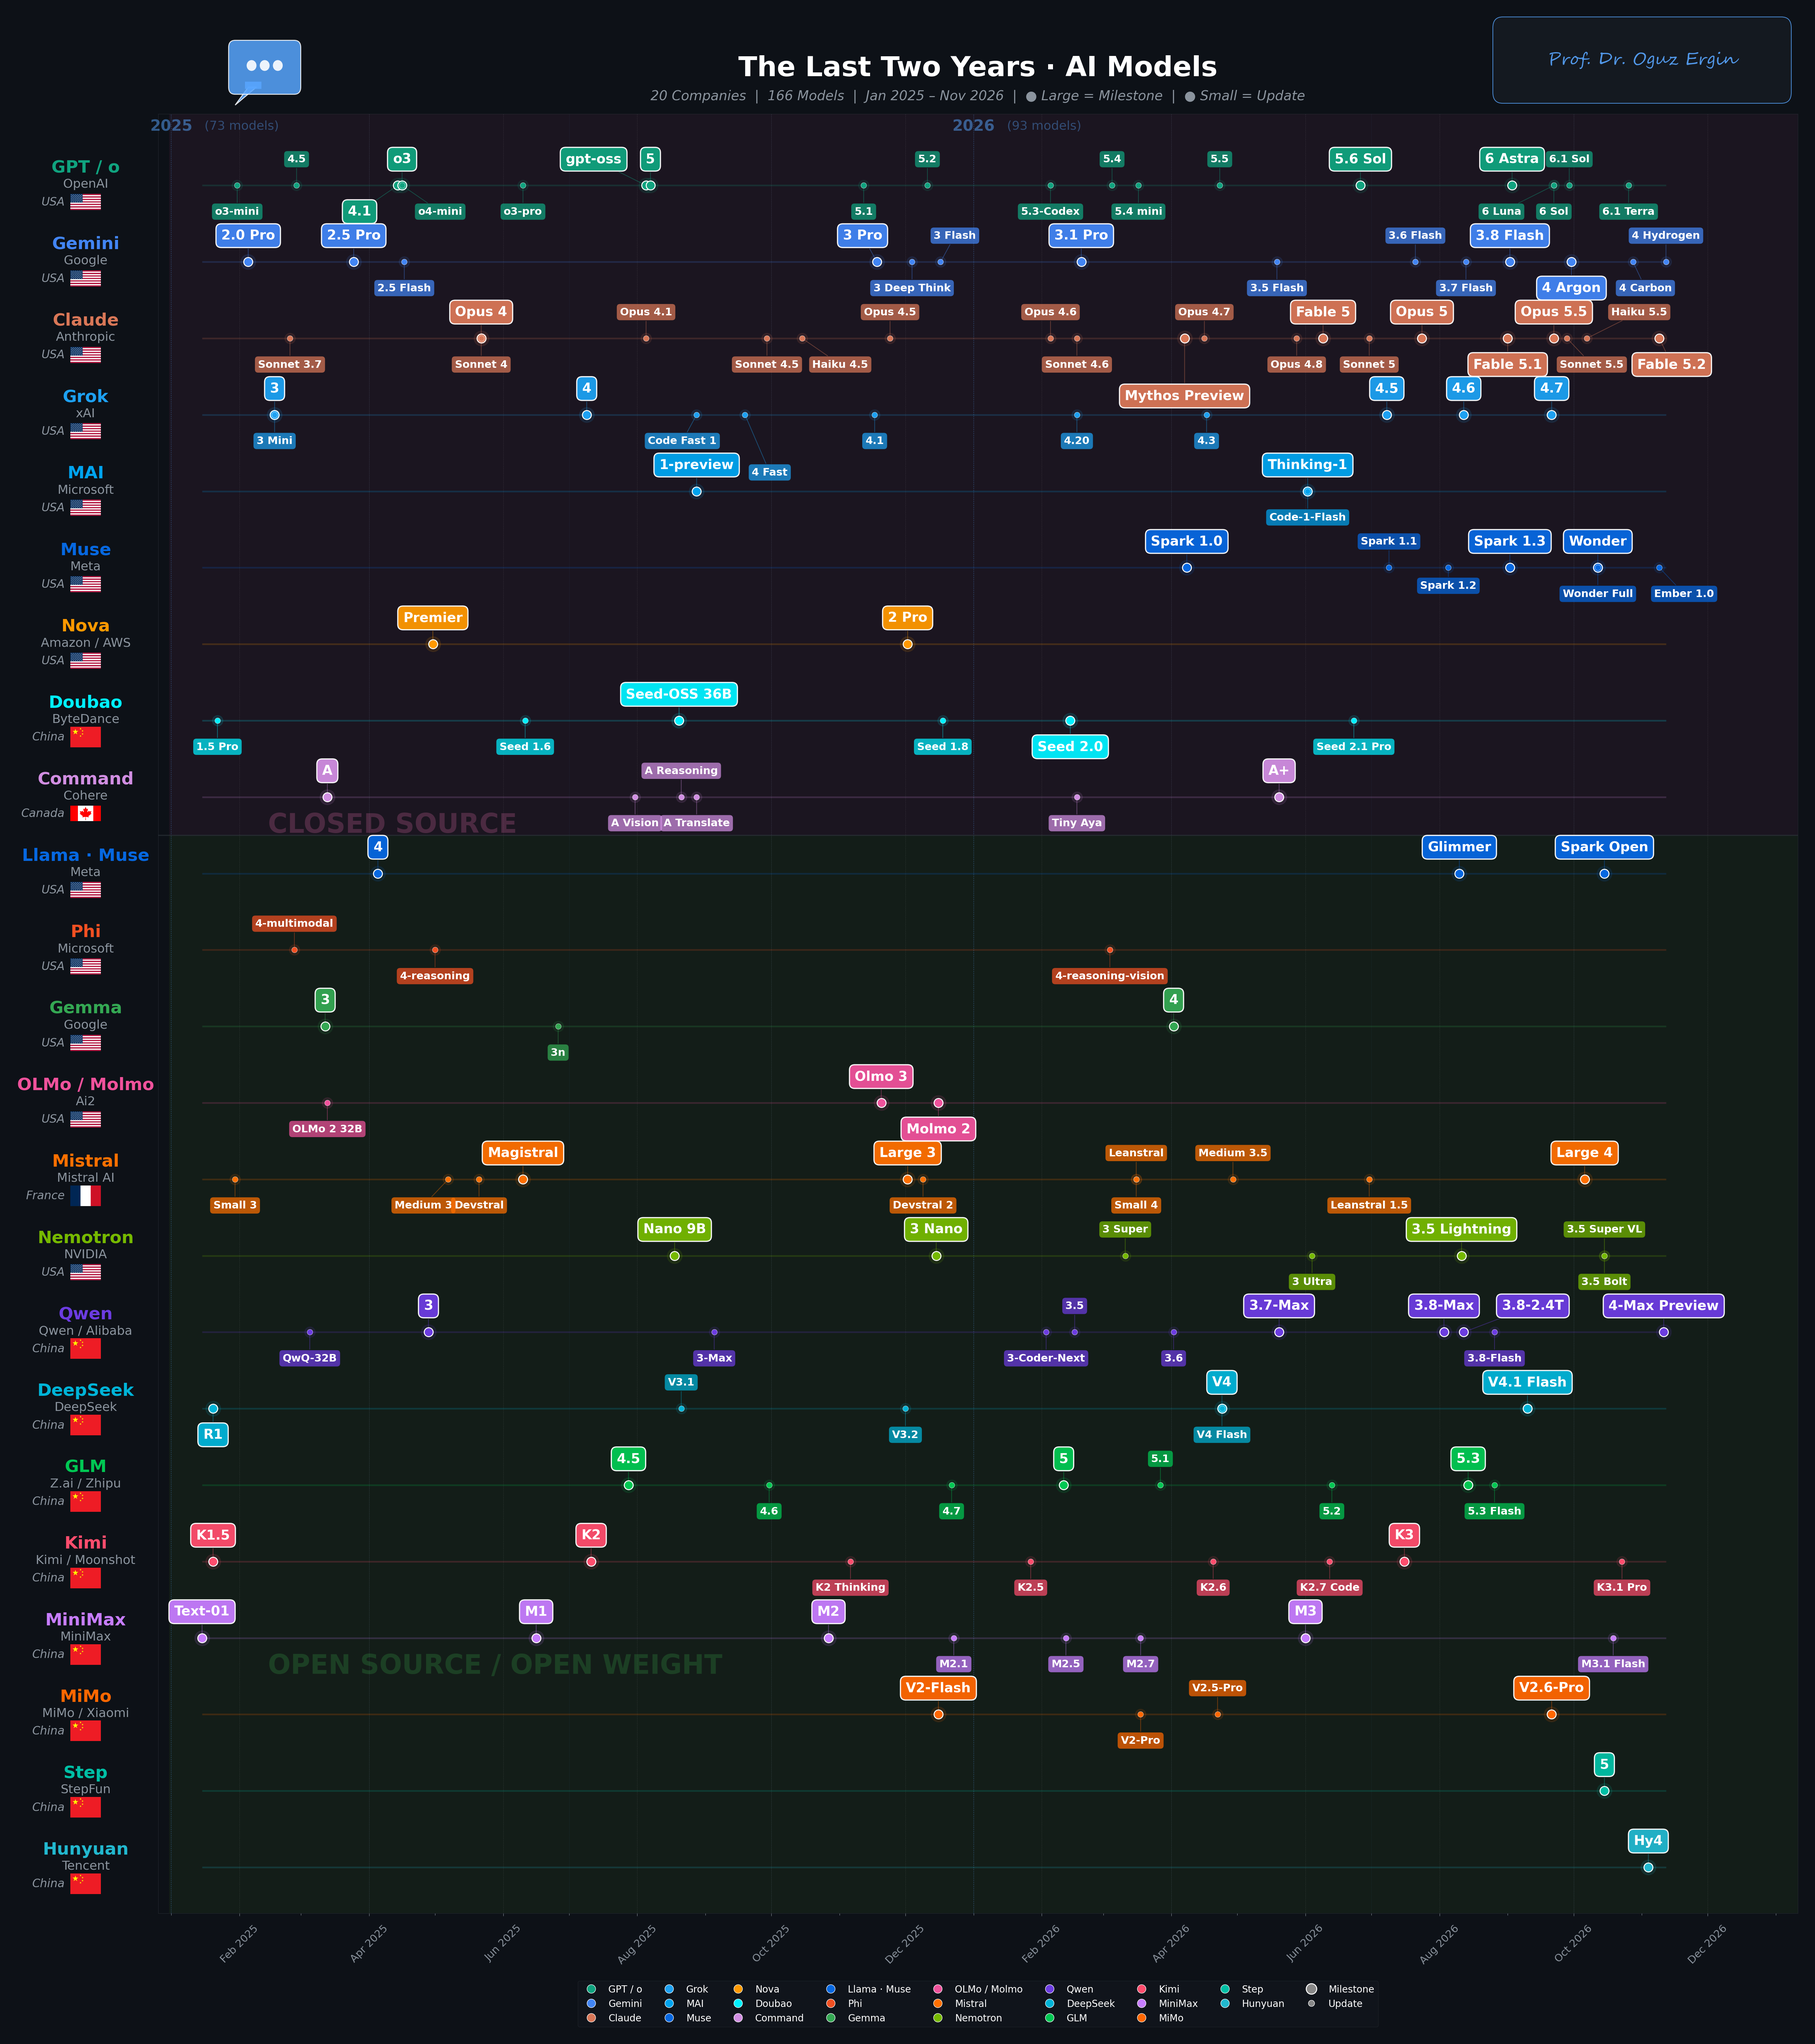
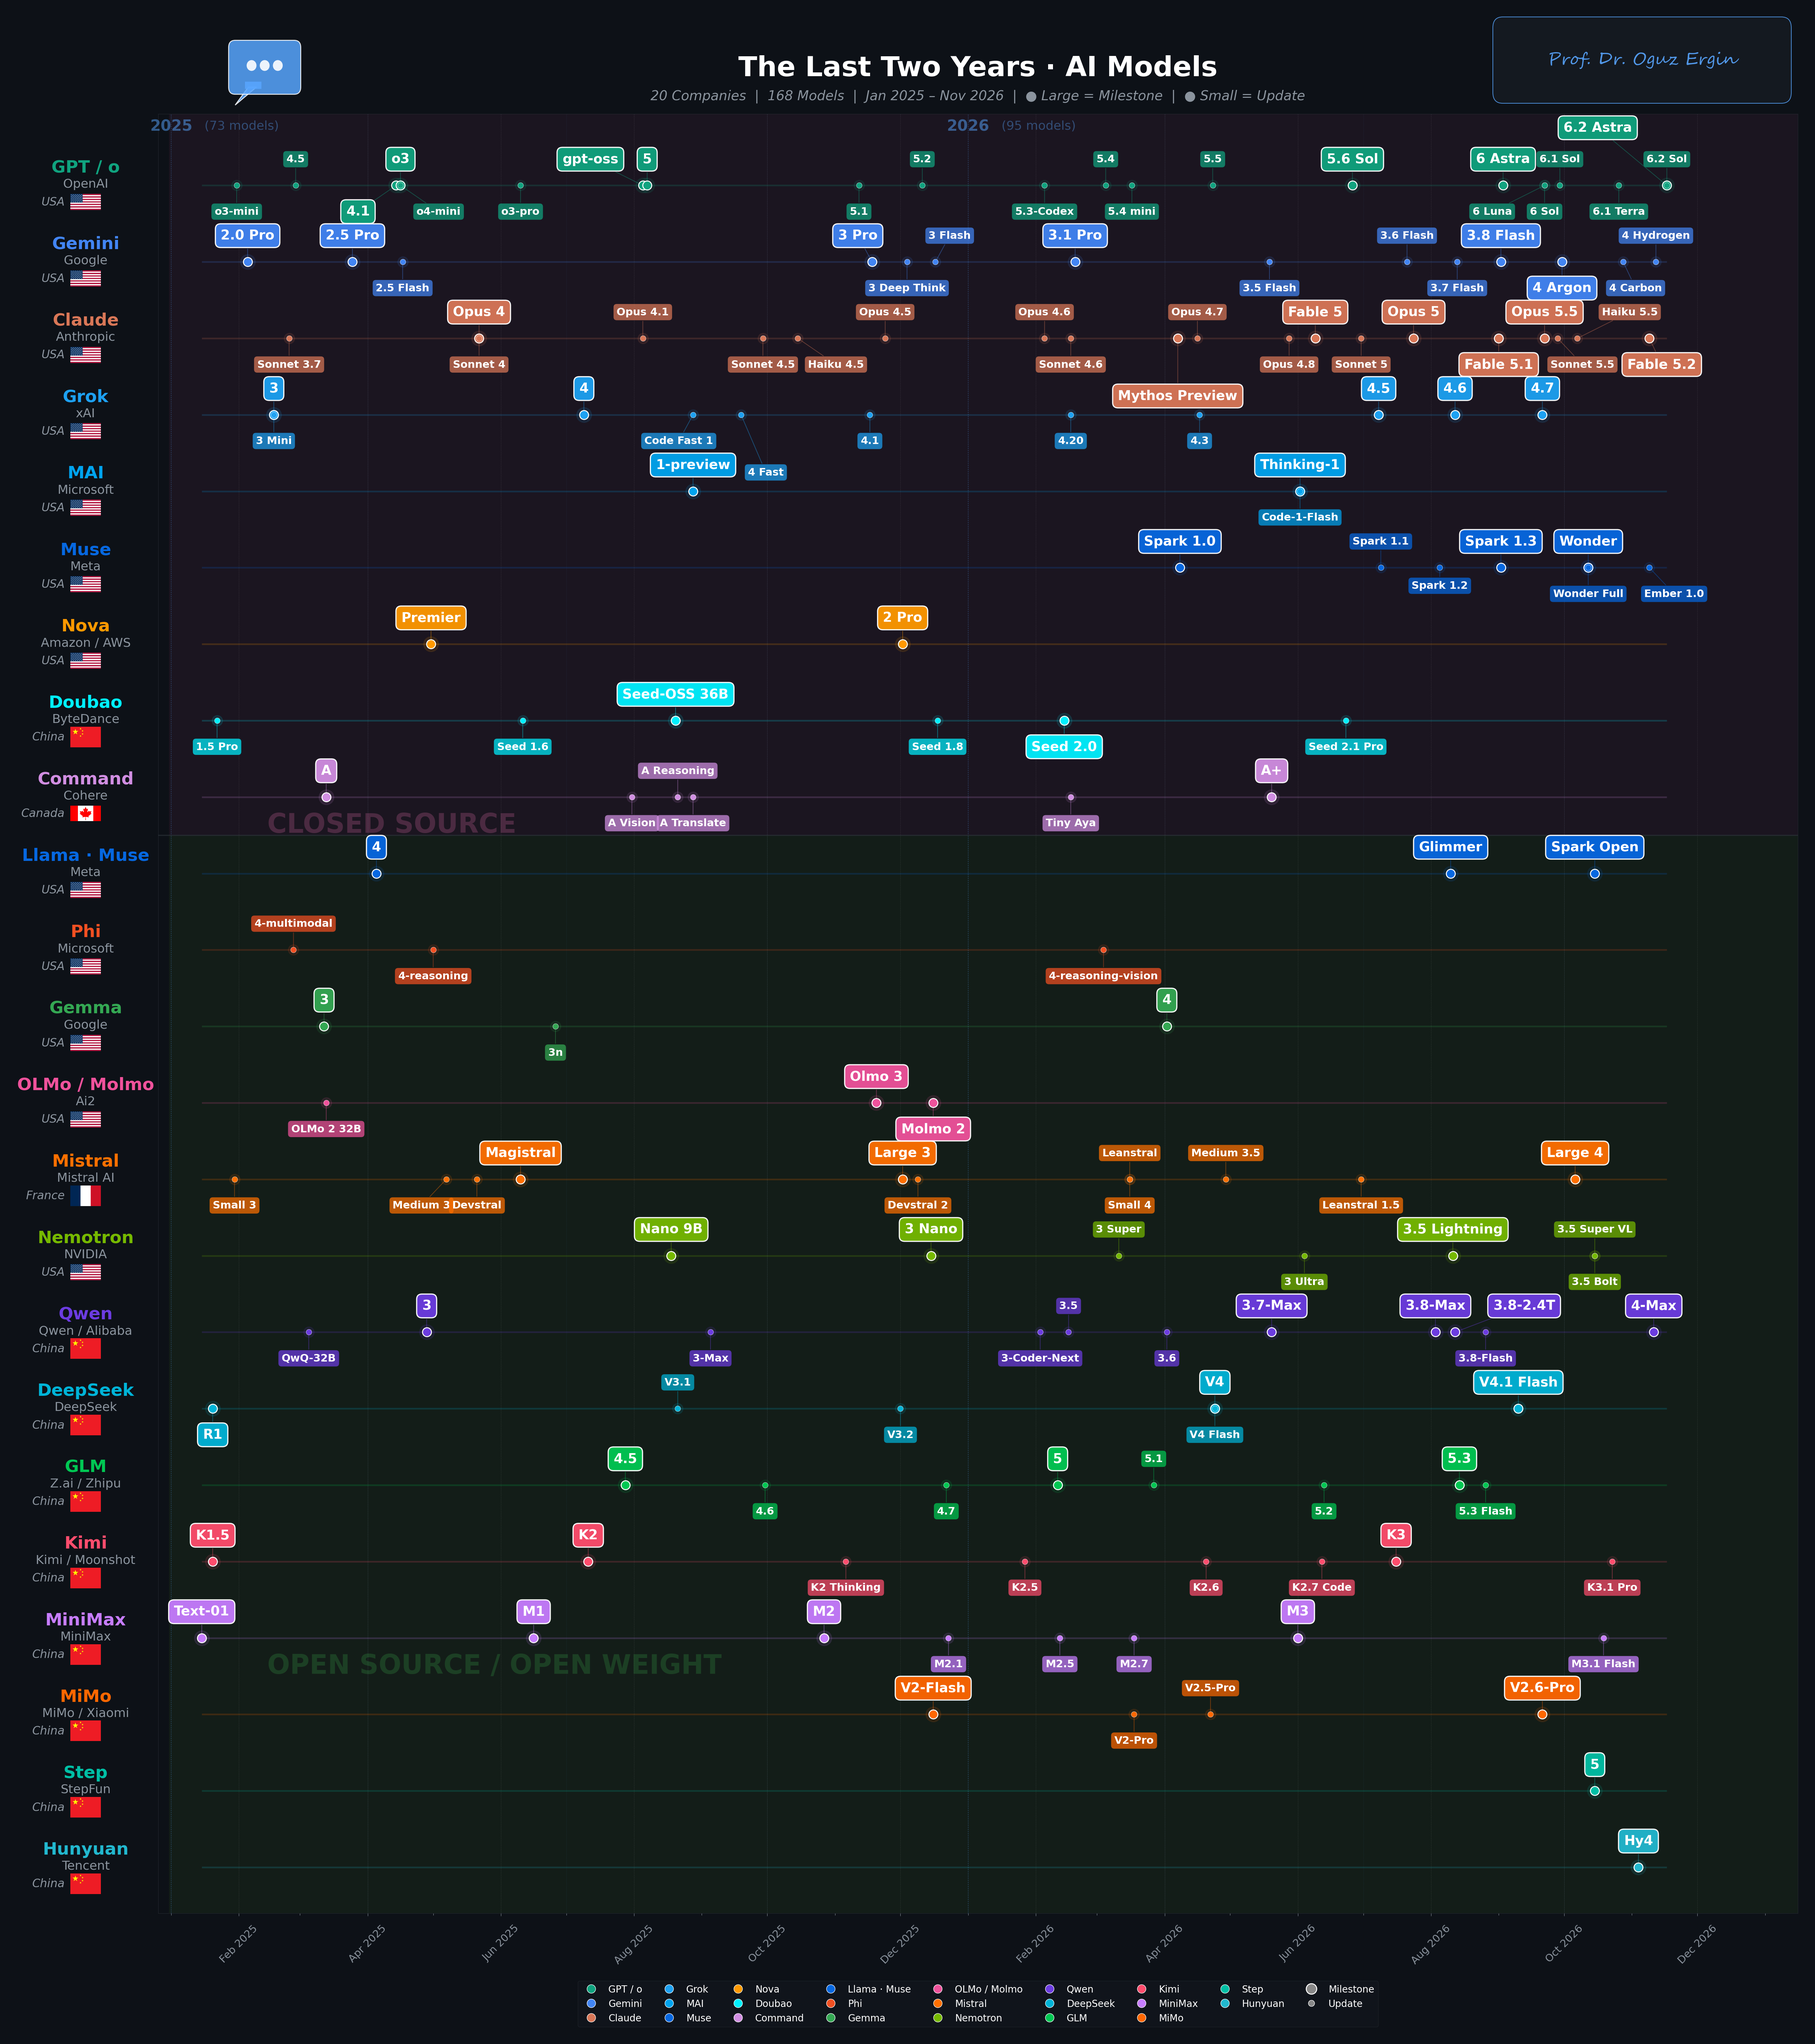
GPT-6.2 Astra ve Sol eklendi; Qwen4-Max tam surum adina cevrildi
OpenAI 17 Kas 2026'da GPT-6.2 Astra ve GPT-6.2 Sol'u yayimladi (ChatGPT,
Codex, API: gpt-6.2-astra / gpt-6.2-sol). Astra donum noktasi, Sol kademe.
Astra'nin API fiyati 10/50'den 8/40 dolara indi.

Qwen4-Max 16 Kas'ta genel kullanima acildi (qwen4-max, 2,4T MoE, kapali
agirlik). Kayit "Qwen4-Max-Preview" idi; ad "Qwen4-Max" yapildi, tarih
ilk duyuru kurali geregi 11 Kas'ta birakildi (onizleme o gun acildi).

Yerlesim: 6.2 Sol (105, 55), 6.2 Astra (40, 121). Cozucunun ilk konumu
6.1 Terra kutusundan gecen bir baglanti cizgisi uretiyordu.
llm_check 11 kusur (onceki 10): tek fark Codestral/Large 2 arasinin
8 px payin altina inmesi; ortusme yok, eksen 5 gun uzayinca olcek daraldi.
223 -> 225 model, iki yillik 166 -> 168.

diff --git a/index.html b/index.html
@@ -600,7 +600,7 @@
 </footer>
 
 <script>
-  const ASSET_V = "20261113b";
+  const ASSET_V = "20261118a";
   // Karsilastirma tablosu artik sayfaya gomulu (shadow DOM); iframe/fitCmp yok.
   const labels = {
     tr: {
@@ -641,7 +641,7 @@
       dl_source: "Kaynak: Andon Labs",
       show_all: "Hepsini Göster",
       hide_all: "Hepsini Gizle",
-      desc_llm: "<strong>223 büyük dil modeli</strong>, çıkış tarihine göre sıralı. 23 model ailesi (açık ve kapalı ağırlıklı), Kasım 2022'den günümüze.",
+      desc_llm: "<strong>225 büyük dil modeli</strong>, çıkış tarihine göre sıralı. 23 model ailesi (açık ve kapalı ağırlıklı), Kasım 2022'den günümüze.",
       desc_image: "<strong>22 görsel üretme aracı, 106 sürüm.</strong> DALL-E, Midjourney, Imagen, FLUX, Stable Diffusion ve daha fazlası. 2021'den günümüze.",
       desc_video: "<strong>Yapay Zeka Video Üretme Araçları Zaman Çizelgesi.</strong> 22 araç · 85 sürüm · Şubat 2023 – Kasım 2026",
       desc_compare: "<strong>Öncü LLM karşılaştırma tablosu.</strong> 52 model × 70 benchmark. Her satır renk skalalı (yeşil = en iyi, kırmızı = en kötü), en yüksek skor çerçeveli. Anthropic, OpenAI, Google, Moonshot, Z.AI, Alibaba, DeepSeek, xAI, Meta modelleri yan yana.",
@@ -656,7 +656,7 @@
       dl_other_all: "Son 2 yıl · PNG",
       img_llm_2y: "ai_timeline_2yil_tr.png",
       img_llm_2y_linkedin: "ai_timeline_2yil_tr_linkedin.png",
-      desc_llm_2y: "<strong>166 büyük dil modeli</strong>, çıkış tarihine göre sıralı. Ocak 2025'ten günümüze; modellerin üçte ikisi bu iki yıla sığıyor, o yüzden burada daha rahat okunuyor.",
+      desc_llm_2y: "<strong>168 büyük dil modeli</strong>, çıkış tarihine göre sıralı. Ocak 2025'ten günümüze; modellerin üçte ikisi bu iki yıla sığıyor, o yüzden burada daha rahat okunuyor.",
       img_llm: "ai_timeline_final_tr.png",
       img_llm_linkedin: "ai_timeline_final_tr_linkedin.png",
       img_image: "ai_image_gen_timeline_tr.png",
@@ -713,7 +713,7 @@
       dl_source: "Source: Andon Labs",
       show_all: "Show All",
       hide_all: "Hide All",
-      desc_llm: "<strong>223 large language models</strong>, sorted by release date. 23 model families (open and closed weights), from November 2022 to today.",
+      desc_llm: "<strong>225 large language models</strong>, sorted by release date. 23 model families (open and closed weights), from November 2022 to today.",
       desc_image: "<strong>22 image generation tools, 106 versions.</strong> DALL-E, Midjourney, Imagen, FLUX, Stable Diffusion and more — from 2021 to today.",
       desc_video: "<strong>AI Video Generation Tools Timeline.</strong> 22 tools · 85 versions · Feb 2023 – Nov 2026",
       desc_compare: "<strong>Frontier LLM comparison table.</strong> 52 models × 70 benchmarks. Each row color-scaled (green = best, red = worst), top score framed. Anthropic, OpenAI, Google, Moonshot, Z.AI, Alibaba, DeepSeek, xAI, Meta models side by side.",
@@ -728,7 +728,7 @@
       dl_other_all: "Last 2 years · PNG",
       img_llm_2y: "ai_timeline_2yil.png",
       img_llm_2y_linkedin: "ai_timeline_2yil_linkedin.png",
-      desc_llm_2y: "<strong>166 large language models</strong>, sorted by release date. From January 2025 to today; two thirds of all tracked models fall in these two years, which is why they read more clearly here.",
+      desc_llm_2y: "<strong>168 large language models</strong>, sorted by release date. From January 2025 to today; two thirds of all tracked models fall in these two years, which is why they read more clearly here.",
       img_llm: "ai_timeline_final.png",
       img_llm_linkedin: "ai_timeline_final_linkedin.png",
       img_image: "ai_image_gen_timeline.png",

diff --git a/ai_timeline_final.py b/ai_timeline_final.py
@@ -40,6 +40,8 @@ data = [
     ("GPT-6 Luna", "OpenAI", "2026-09-22", False),
     ("GPT-6.1 Sol", "OpenAI", "2026-09-29", False),
     ("GPT-6.1 Terra", "OpenAI", "2026-10-26", False),
+    ("GPT-6.2 Astra", "OpenAI", "2026-11-17", True),
+    ("GPT-6.2 Sol", "OpenAI", "2026-11-17", False),
 
     # Google
     ("Gemini 1.0 Pro", "Google", "2023-12-06", True),
@@ -183,7 +185,7 @@ data = [
     ("Qwen3.8-Max", "Qwen", "2026-08-03", True),
     ("Qwen3.8-2.4T", "Qwen", "2026-08-12", True),
     ("Qwen3.8-Flash-Next", "Qwen", "2026-08-26", False),
-    ("Qwen4-Max-Preview", "Qwen", "2026-11-11", True),
+    ("Qwen4-Max", "Qwen", "2026-11-11", True),
 
     # DeepSeek
     ("DeepSeek Coder", "DeepSeek", "2023-11-02", True),
@@ -320,6 +322,8 @@ short_labels = {
     "gpt-oss":          "gpt-oss",
     "GPT-6.1 Sol":      "6.1 Sol",
     "GPT-6.1 Terra":    "6.1 Terra",
+    "GPT-6.2 Astra":    "6.2 Astra",
+    "GPT-6.2 Sol":      "6.2 Sol",
     "MiMo-V2-Flash":    "V2-Flash",
     "MiMo-V2-Pro":      "V2-Pro",
     "MiMo-V2.5-Pro":    "V2.5-Pro",
@@ -329,7 +333,7 @@ short_labels = {
     "Step 5":           "5",
     "Hy4":              "Hy4",
     "Muse Ember 1.0":   "Ember 1.0",
-    "Qwen4-Max-Preview": "4-Max Preview",
+    "Qwen4-Max":        "4-Max",
     # Google Gemini
     "Gemini 1.0 Pro":       "1.0 Pro",
     "Gemini 1.5 Pro":       "1.5 Pro",
@@ -842,6 +846,8 @@ company_overrides = {
     ("Anthropic", "Fable 5.1"): (0, -55),
     ("Anthropic", "Fable 5.2"): (0, -55),
     ("Google", "4 Hydrogen"): (0, 55),
+    ("OpenAI", "6.2 Sol"): (105, 55),
+    ("OpenAI", "6.2 Astra"): (40, 121),
     ("Anthropic", "Mythos Preview"): (-80, -121),
     # Mistral - all labels equal distance from line (no multi-level stacking)
     ("Mistral", "Medium 3"):    (-55, -55),

diff --git a/ai_timeline_final_tr.py b/ai_timeline_final_tr.py
@@ -40,6 +40,8 @@ data = [
     ("GPT-6 Luna", "OpenAI", "2026-09-22", False),
     ("GPT-6.1 Sol", "OpenAI", "2026-09-29", False),
     ("GPT-6.1 Terra", "OpenAI", "2026-10-26", False),
+    ("GPT-6.2 Astra", "OpenAI", "2026-11-17", True),
+    ("GPT-6.2 Sol", "OpenAI", "2026-11-17", False),
 
     # Google
     ("Gemini 1.0 Pro", "Google", "2023-12-06", True),
@@ -183,7 +185,7 @@ data = [
     ("Qwen3.8-Max", "Qwen", "2026-08-03", True),
     ("Qwen3.8-2.4T", "Qwen", "2026-08-12", True),
     ("Qwen3.8-Flash-Next", "Qwen", "2026-08-26", False),
-    ("Qwen4-Max-Preview", "Qwen", "2026-11-11", True),
+    ("Qwen4-Max", "Qwen", "2026-11-11", True),
 
     # DeepSeek
     ("DeepSeek Coder", "DeepSeek", "2023-11-02", True),
@@ -320,6 +322,8 @@ short_labels = {
     "gpt-oss":          "gpt-oss",
     "GPT-6.1 Sol":      "6.1 Sol",
     "GPT-6.1 Terra":    "6.1 Terra",
+    "GPT-6.2 Astra":    "6.2 Astra",
+    "GPT-6.2 Sol":      "6.2 Sol",
     "MiMo-V2-Flash":    "V2-Flash",
     "MiMo-V2-Pro":      "V2-Pro",
     "MiMo-V2.5-Pro":    "V2.5-Pro",
@@ -329,7 +333,7 @@ short_labels = {
     "Step 5":           "5",
     "Hy4":              "Hy4",
     "Muse Ember 1.0":   "Ember 1.0",
-    "Qwen4-Max-Preview": "4-Max Preview",
+    "Qwen4-Max":        "4-Max",
     # Google Gemini
     "Gemini 1.0 Pro":       "1.0 Pro",
     "Gemini 1.5 Pro":       "1.5 Pro",
@@ -843,6 +847,8 @@ company_overrides = {
     ("Anthropic", "Fable 5.1"): (0, -55),
     ("Anthropic", "Fable 5.2"): (0, -55),
     ("Google", "4 Hydrogen"): (0, 55),
+    ("OpenAI", "6.2 Sol"): (105, 55),
+    ("OpenAI", "6.2 Astra"): (40, 121),
     ("Anthropic", "Mythos Preview"): (-80, -121),
     # Mistral - all labels equal distance from line (no multi-level stacking)
     ("Mistral", "Medium 3"):    (-55, -55),

diff --git a/ai_timeline_2yil.py b/ai_timeline_2yil.py
@@ -40,6 +40,8 @@ data = [
     ("GPT-6 Luna", "OpenAI", "2026-09-22", False),
     ("GPT-6.1 Sol", "OpenAI", "2026-09-29", False),
     ("GPT-6.1 Terra", "OpenAI", "2026-10-26", False),
+    ("GPT-6.2 Astra", "OpenAI", "2026-11-17", True),
+    ("GPT-6.2 Sol", "OpenAI", "2026-11-17", False),
 
     # Google
     ("Gemini 1.0 Pro", "Google", "2023-12-06", True),
@@ -183,7 +185,7 @@ data = [
     ("Qwen3.8-Max", "Qwen", "2026-08-03", True),
     ("Qwen3.8-2.4T", "Qwen", "2026-08-12", True),
     ("Qwen3.8-Flash-Next", "Qwen", "2026-08-26", False),
-    ("Qwen4-Max-Preview", "Qwen", "2026-11-11", True),
+    ("Qwen4-Max", "Qwen", "2026-11-11", True),
 
     # DeepSeek
     ("DeepSeek Coder", "DeepSeek", "2023-11-02", True),
@@ -322,6 +324,8 @@ short_labels = {
     "gpt-oss":          "gpt-oss",
     "GPT-6.1 Sol":      "6.1 Sol",
     "GPT-6.1 Terra":    "6.1 Terra",
+    "GPT-6.2 Astra":    "6.2 Astra",
+    "GPT-6.2 Sol":      "6.2 Sol",
     "MiMo-V2-Flash":    "V2-Flash",
     "MiMo-V2-Pro":      "V2-Pro",
     "MiMo-V2.5-Pro":    "V2.5-Pro",
@@ -331,7 +335,7 @@ short_labels = {
     "Step 5":           "5",
     "Hy4":              "Hy4",
     "Muse Ember 1.0":   "Ember 1.0",
-    "Qwen4-Max-Preview": "4-Max Preview",
+    "Qwen4-Max":        "4-Max",
     # Google Gemini
     "Gemini 1.0 Pro":       "1.0 Pro",
     "Gemini 1.5 Pro":       "1.5 Pro",
@@ -845,6 +849,8 @@ company_overrides = {
     ("Anthropic", "Fable 5.1"): (0, -55),
     ("Anthropic", "Fable 5.2"): (0, -55),
     ("Google", "4 Hydrogen"): (0, 55),
+    ("OpenAI", "6.2 Sol"): (0, 55),
+    ("OpenAI", "6.2 Astra"): (0, 121),
     ("Anthropic", "Mythos Preview"): (0, -121),
     # Mistral - all labels equal distance from line (no multi-level stacking)
     ("Mistral", "Medium 3"): (0, -55),

diff --git a/ai_timeline_2yil_tr.py b/ai_timeline_2yil_tr.py
@@ -40,6 +40,8 @@ data = [
     ("GPT-6 Luna", "OpenAI", "2026-09-22", False),
     ("GPT-6.1 Sol", "OpenAI", "2026-09-29", False),
     ("GPT-6.1 Terra", "OpenAI", "2026-10-26", False),
+    ("GPT-6.2 Astra", "OpenAI", "2026-11-17", True),
+    ("GPT-6.2 Sol", "OpenAI", "2026-11-17", False),
 
     # Google
     ("Gemini 1.0 Pro", "Google", "2023-12-06", True),
@@ -183,7 +185,7 @@ data = [
     ("Qwen3.8-Max", "Qwen", "2026-08-03", True),
     ("Qwen3.8-2.4T", "Qwen", "2026-08-12", True),
     ("Qwen3.8-Flash-Next", "Qwen", "2026-08-26", False),
-    ("Qwen4-Max-Preview", "Qwen", "2026-11-11", True),
+    ("Qwen4-Max", "Qwen", "2026-11-11", True),
 
     # DeepSeek
     ("DeepSeek Coder", "DeepSeek", "2023-11-02", True),
@@ -322,6 +324,8 @@ short_labels = {
     "gpt-oss":          "gpt-oss",
     "GPT-6.1 Sol":      "6.1 Sol",
     "GPT-6.1 Terra":    "6.1 Terra",
+    "GPT-6.2 Astra":    "6.2 Astra",
+    "GPT-6.2 Sol":      "6.2 Sol",
     "MiMo-V2-Flash":    "V2-Flash",
     "MiMo-V2-Pro":      "V2-Pro",
     "MiMo-V2.5-Pro":    "V2.5-Pro",
@@ -331,7 +335,7 @@ short_labels = {
     "Step 5":           "5",
     "Hy4":              "Hy4",
     "Muse Ember 1.0":   "Ember 1.0",
-    "Qwen4-Max-Preview": "4-Max Preview",
+    "Qwen4-Max":        "4-Max",
     # Google Gemini
     "Gemini 1.0 Pro":       "1.0 Pro",
     "Gemini 1.5 Pro":       "1.5 Pro",
@@ -846,6 +850,8 @@ company_overrides = {
     ("Anthropic", "Fable 5.1"): (0, -55),
     ("Anthropic", "Fable 5.2"): (0, -55),
     ("Google", "4 Hydrogen"): (0, 55),
+    ("OpenAI", "6.2 Sol"): (0, 55),
+    ("OpenAI", "6.2 Astra"): (0, 121),
     ("Anthropic", "Mythos Preview"): (0, -121),
     # Mistral - all labels equal distance from line (no multi-level stacking)
     ("Mistral", "Medium 3"): (0, -55),
